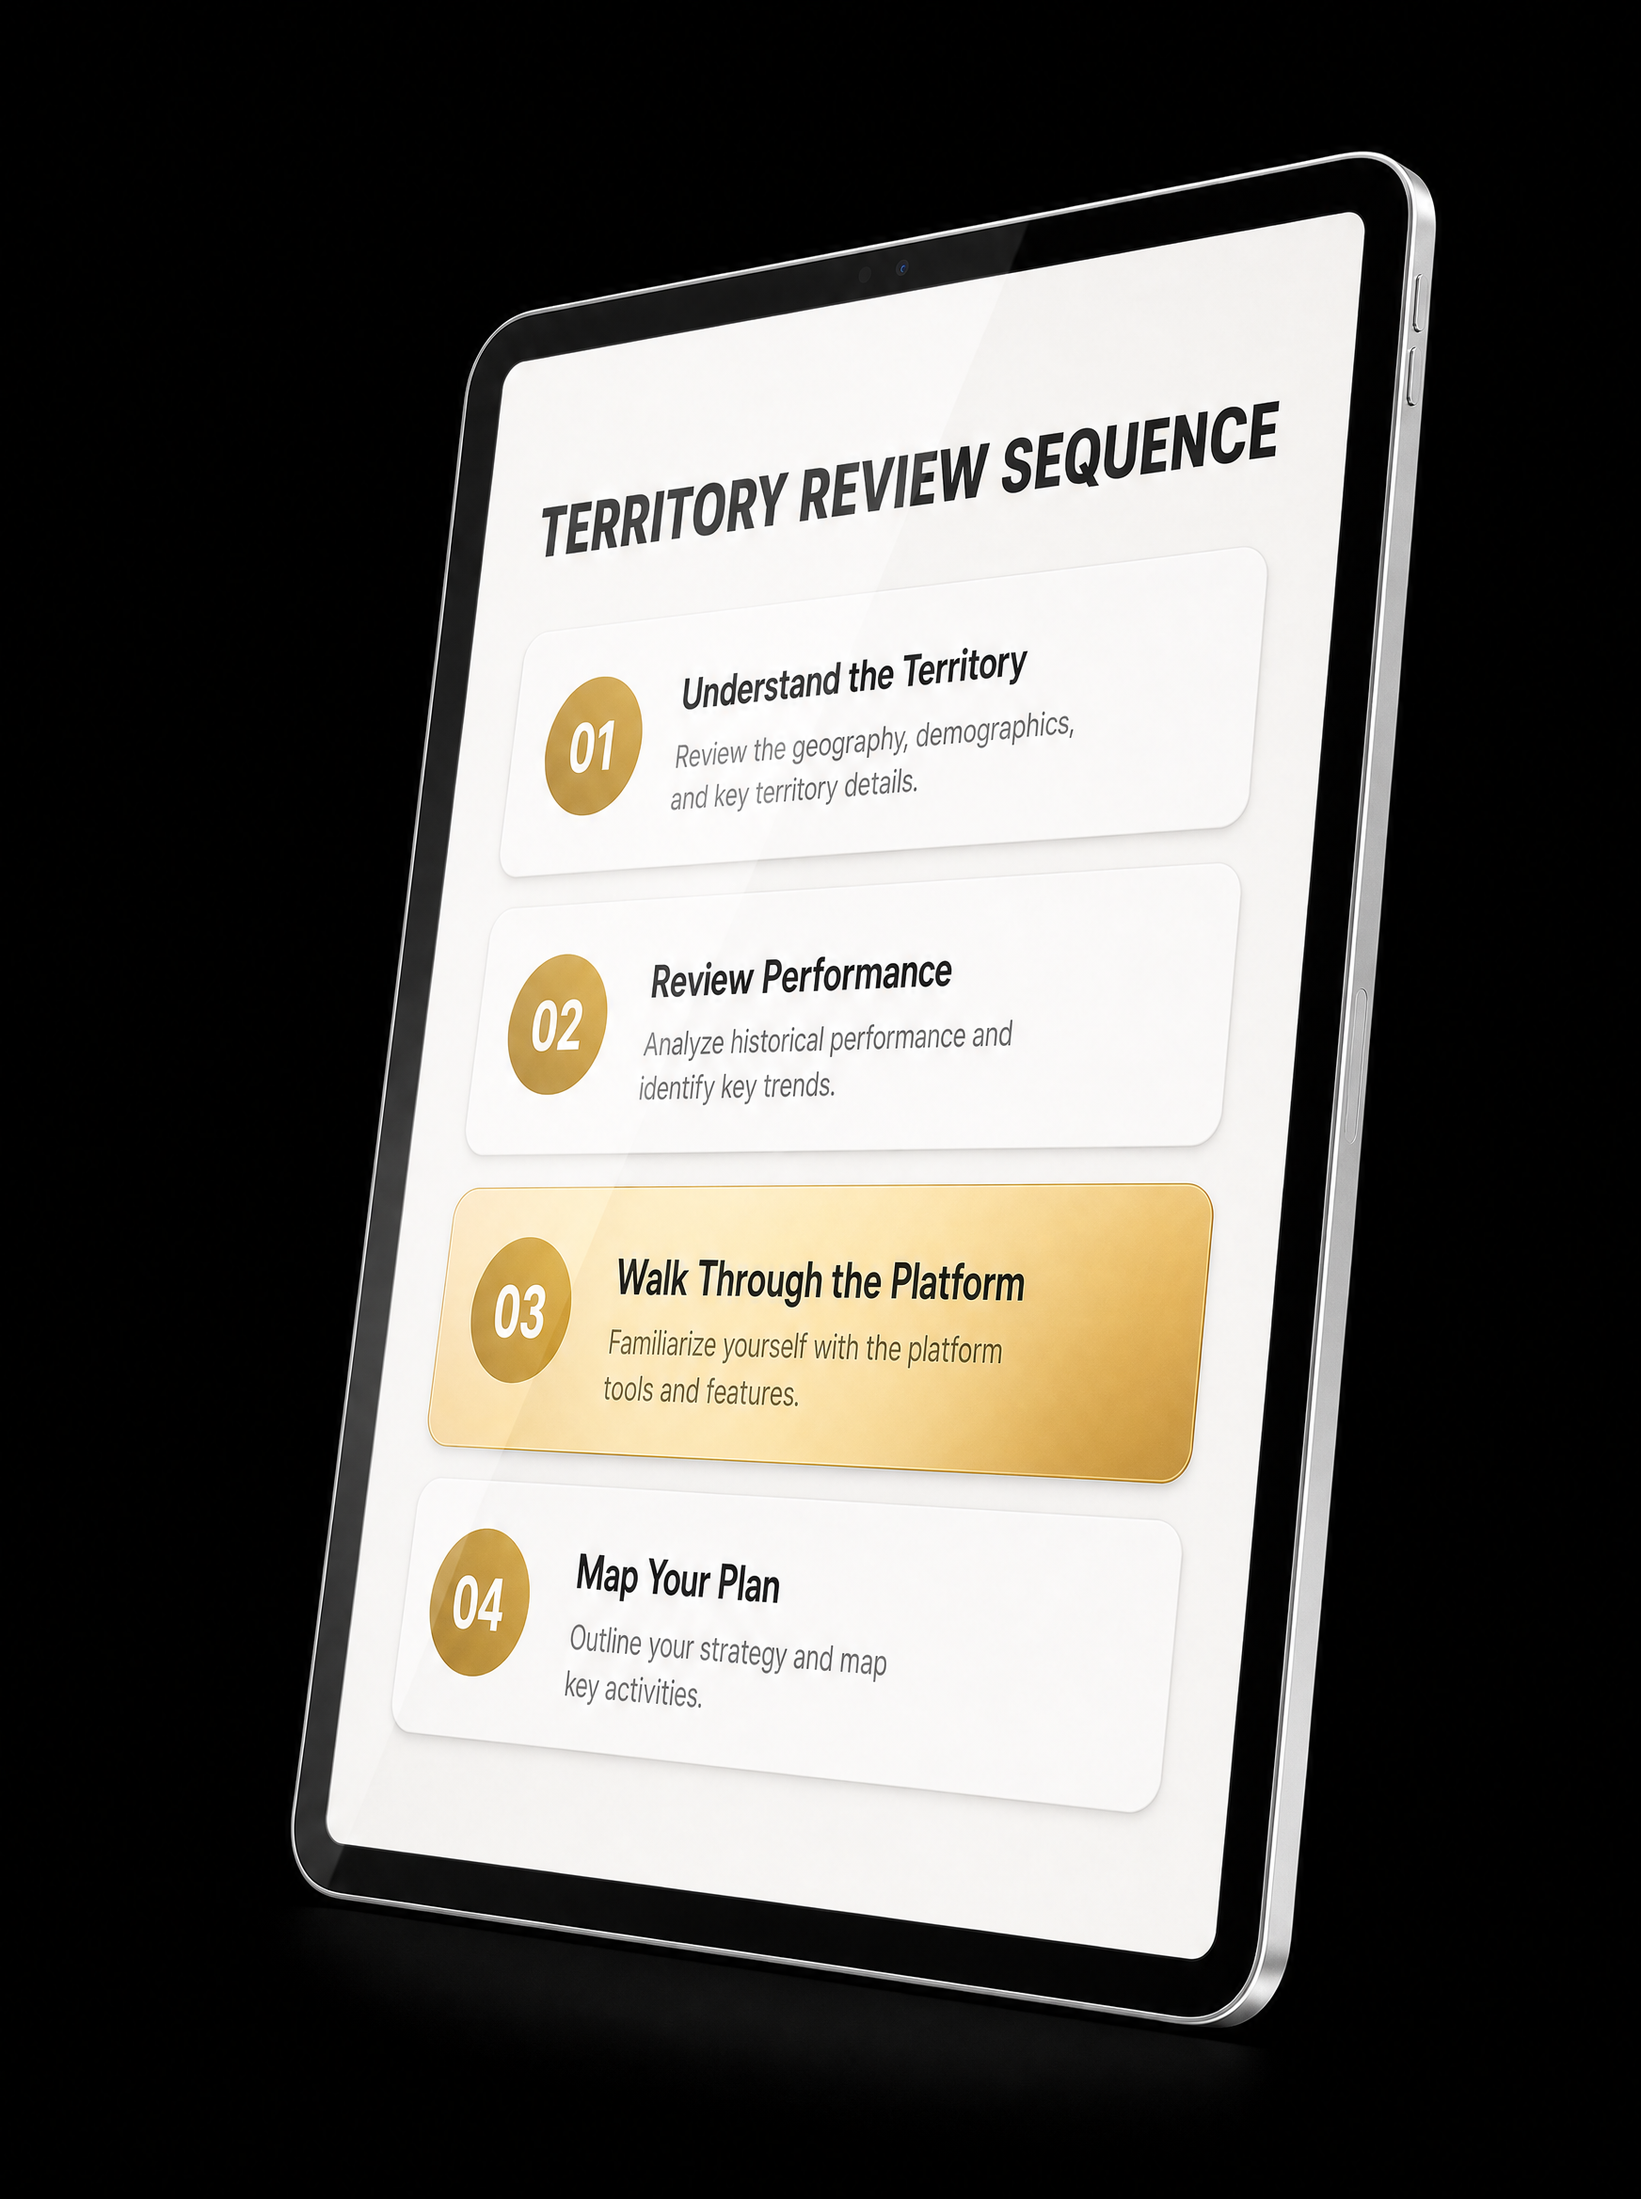
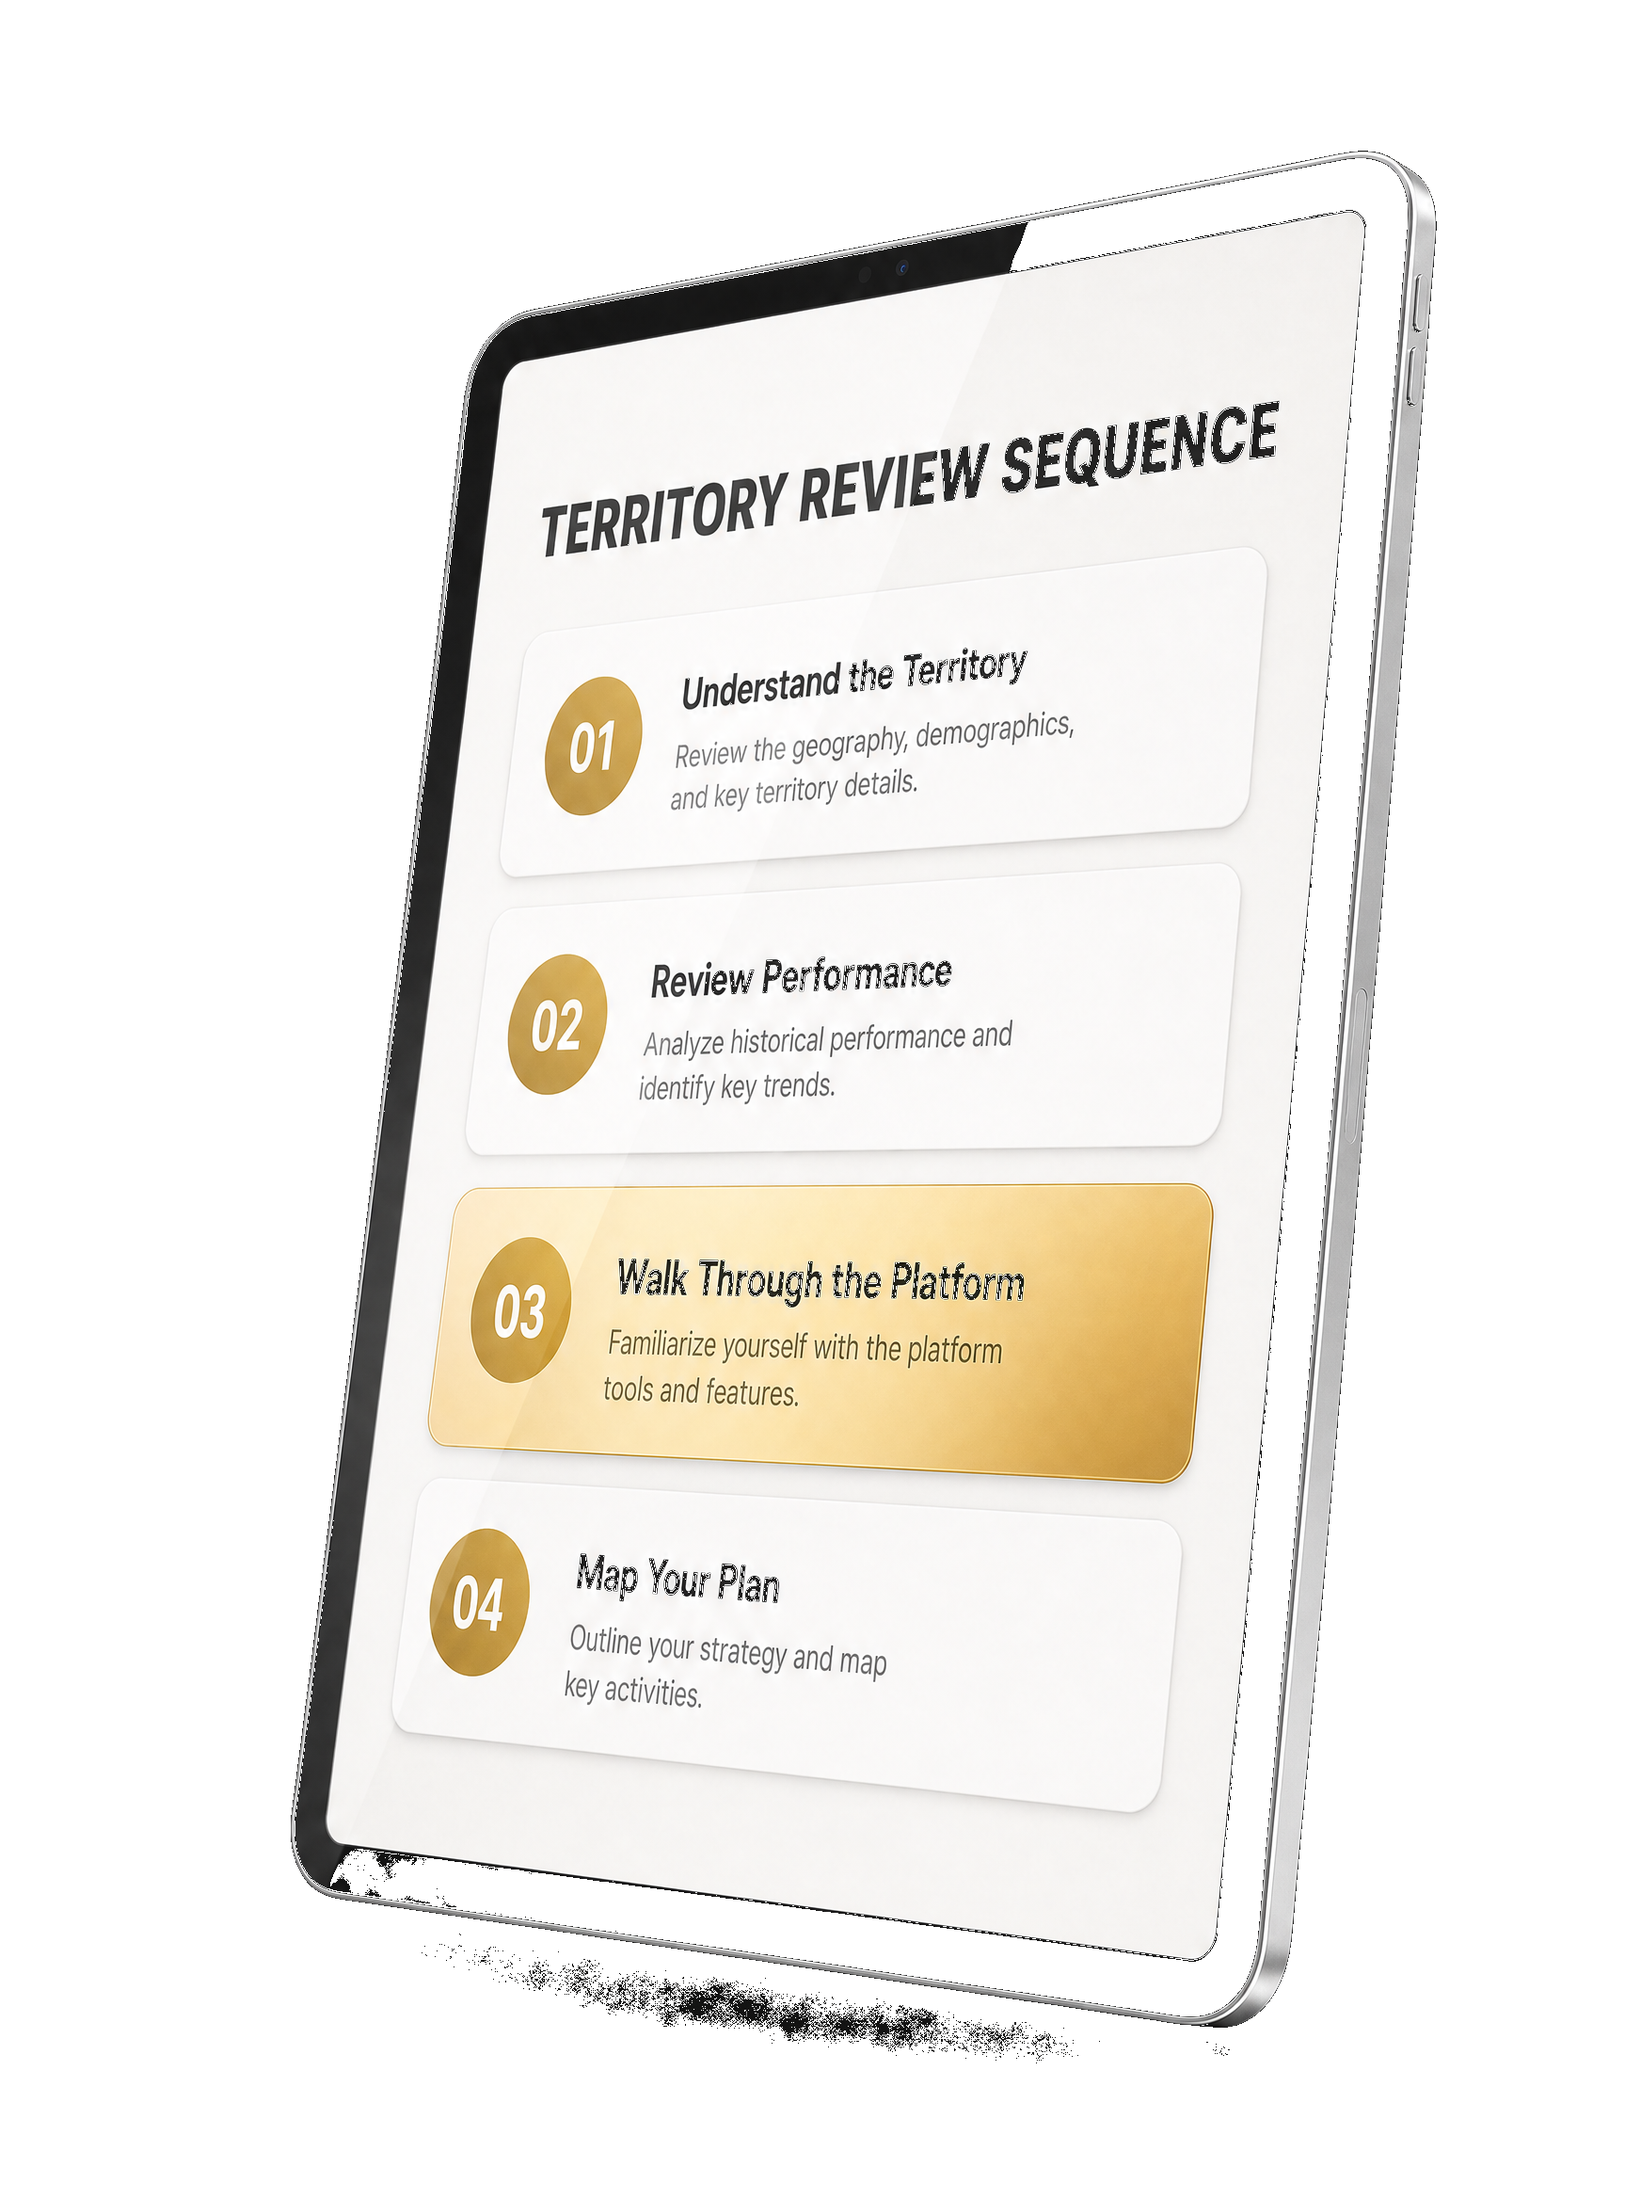
iPad: strip black bg (2.3M px), restore drop-shadow, remove blend mode

diff --git a/new-index.html b/new-index.html
@@ -3393,8 +3393,8 @@ html, body { background: #070707; color: #f5f4f0; -webkit-font-smoothing: antial
   max-width: 520px;
   height: auto;
   display: block;
-  mix-blend-mode: lighten;
-  transition: transform .45s cubic-bezier(.16,1,.3,1);
+  filter: drop-shadow(-20px 28px 52px rgba(0,0,0,.6));
+  transition: filter .45s ease, transform .45s cubic-bezier(.16,1,.3,1);
   will-change: transform;
 }
 .cta-ipad-wrap:hover .cta-ipad-img {
